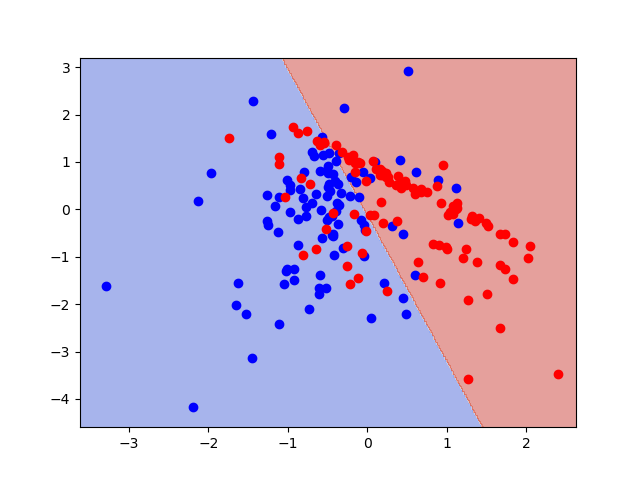
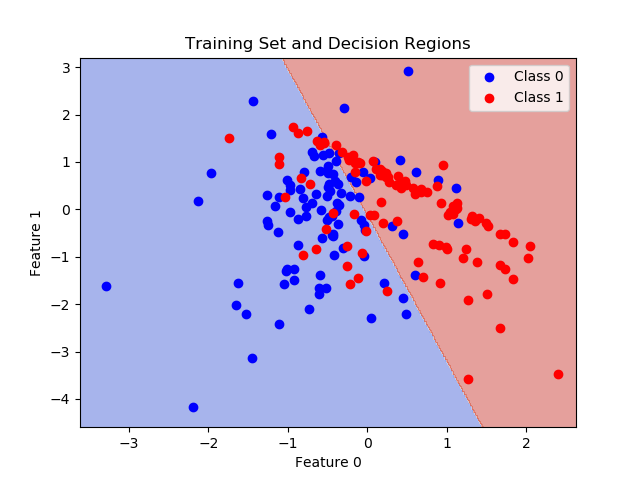
Challenge 5 complete

diff --git a/Students/mason-rumuly/challenge-05/explore.py b/Students/mason-rumuly/challenge-05/explore.py
@@ -17,6 +17,8 @@ kernels = {
     'Polynomial_3':('poly', 3),
     'Polynomial_4':('poly', 4),
     'Polynomial_5':('poly', 5),
+    # 'Polynomial_6':('poly', 6),
+    # 'Polynomial_7':('poly', 7),
     'Radial Basis':('rbf', 1),
     'Sigmoid':('sigmoid', 1)
 }
@@ -43,11 +45,12 @@ if __name__=='__main__':
             SVC(
                 kernel=kernels[k][0],
                 gamma='scale',
-                degree=kernels[k][1]
+                degree=kernels[k][1],
+                random_state=12
             ), 
             training[['Feature 0', 'Feature 1']], 
             training['Class'],
-            cv=LeaveOneOut(),  # cv_bins,
+            cv=LeaveOneOut(),
             n_jobs=-1,
             verbose=0
         )
@@ -63,7 +66,8 @@ if __name__=='__main__':
     svc = SVC(
         kernel=kernels[best[0]][0],
         degree=kernels[best[0]][1],
-        gamma='scale'
+        gamma='scale',
+        random_state=12
     )
     svc.fit(training[['Feature 0','Feature 1']], training['Class'])
 
@@ -86,12 +90,12 @@ if __name__=='__main__':
     # points
     plt.scatter(training.loc[training['Class'] == 0]['Feature 0'], training[training['Class'] == 0]['Feature 1'], label='Class 0', c='blue')
     plt.scatter(training.loc[training['Class'] == 1]['Feature 0'], training[training['Class'] == 1]['Feature 1'], label='Class 1', c='red')
-    plt.savefig(targetDir + 'Regions.png')
     # labels
     plt.xlabel('Feature 0')
     plt.ylabel('Feature 1')
     plt.title('Training Set and Decision Regions')
     plt.legend()
+    plt.savefig(targetDir + 'Regions.png')
     plt.show()
 
     # enter predictions
